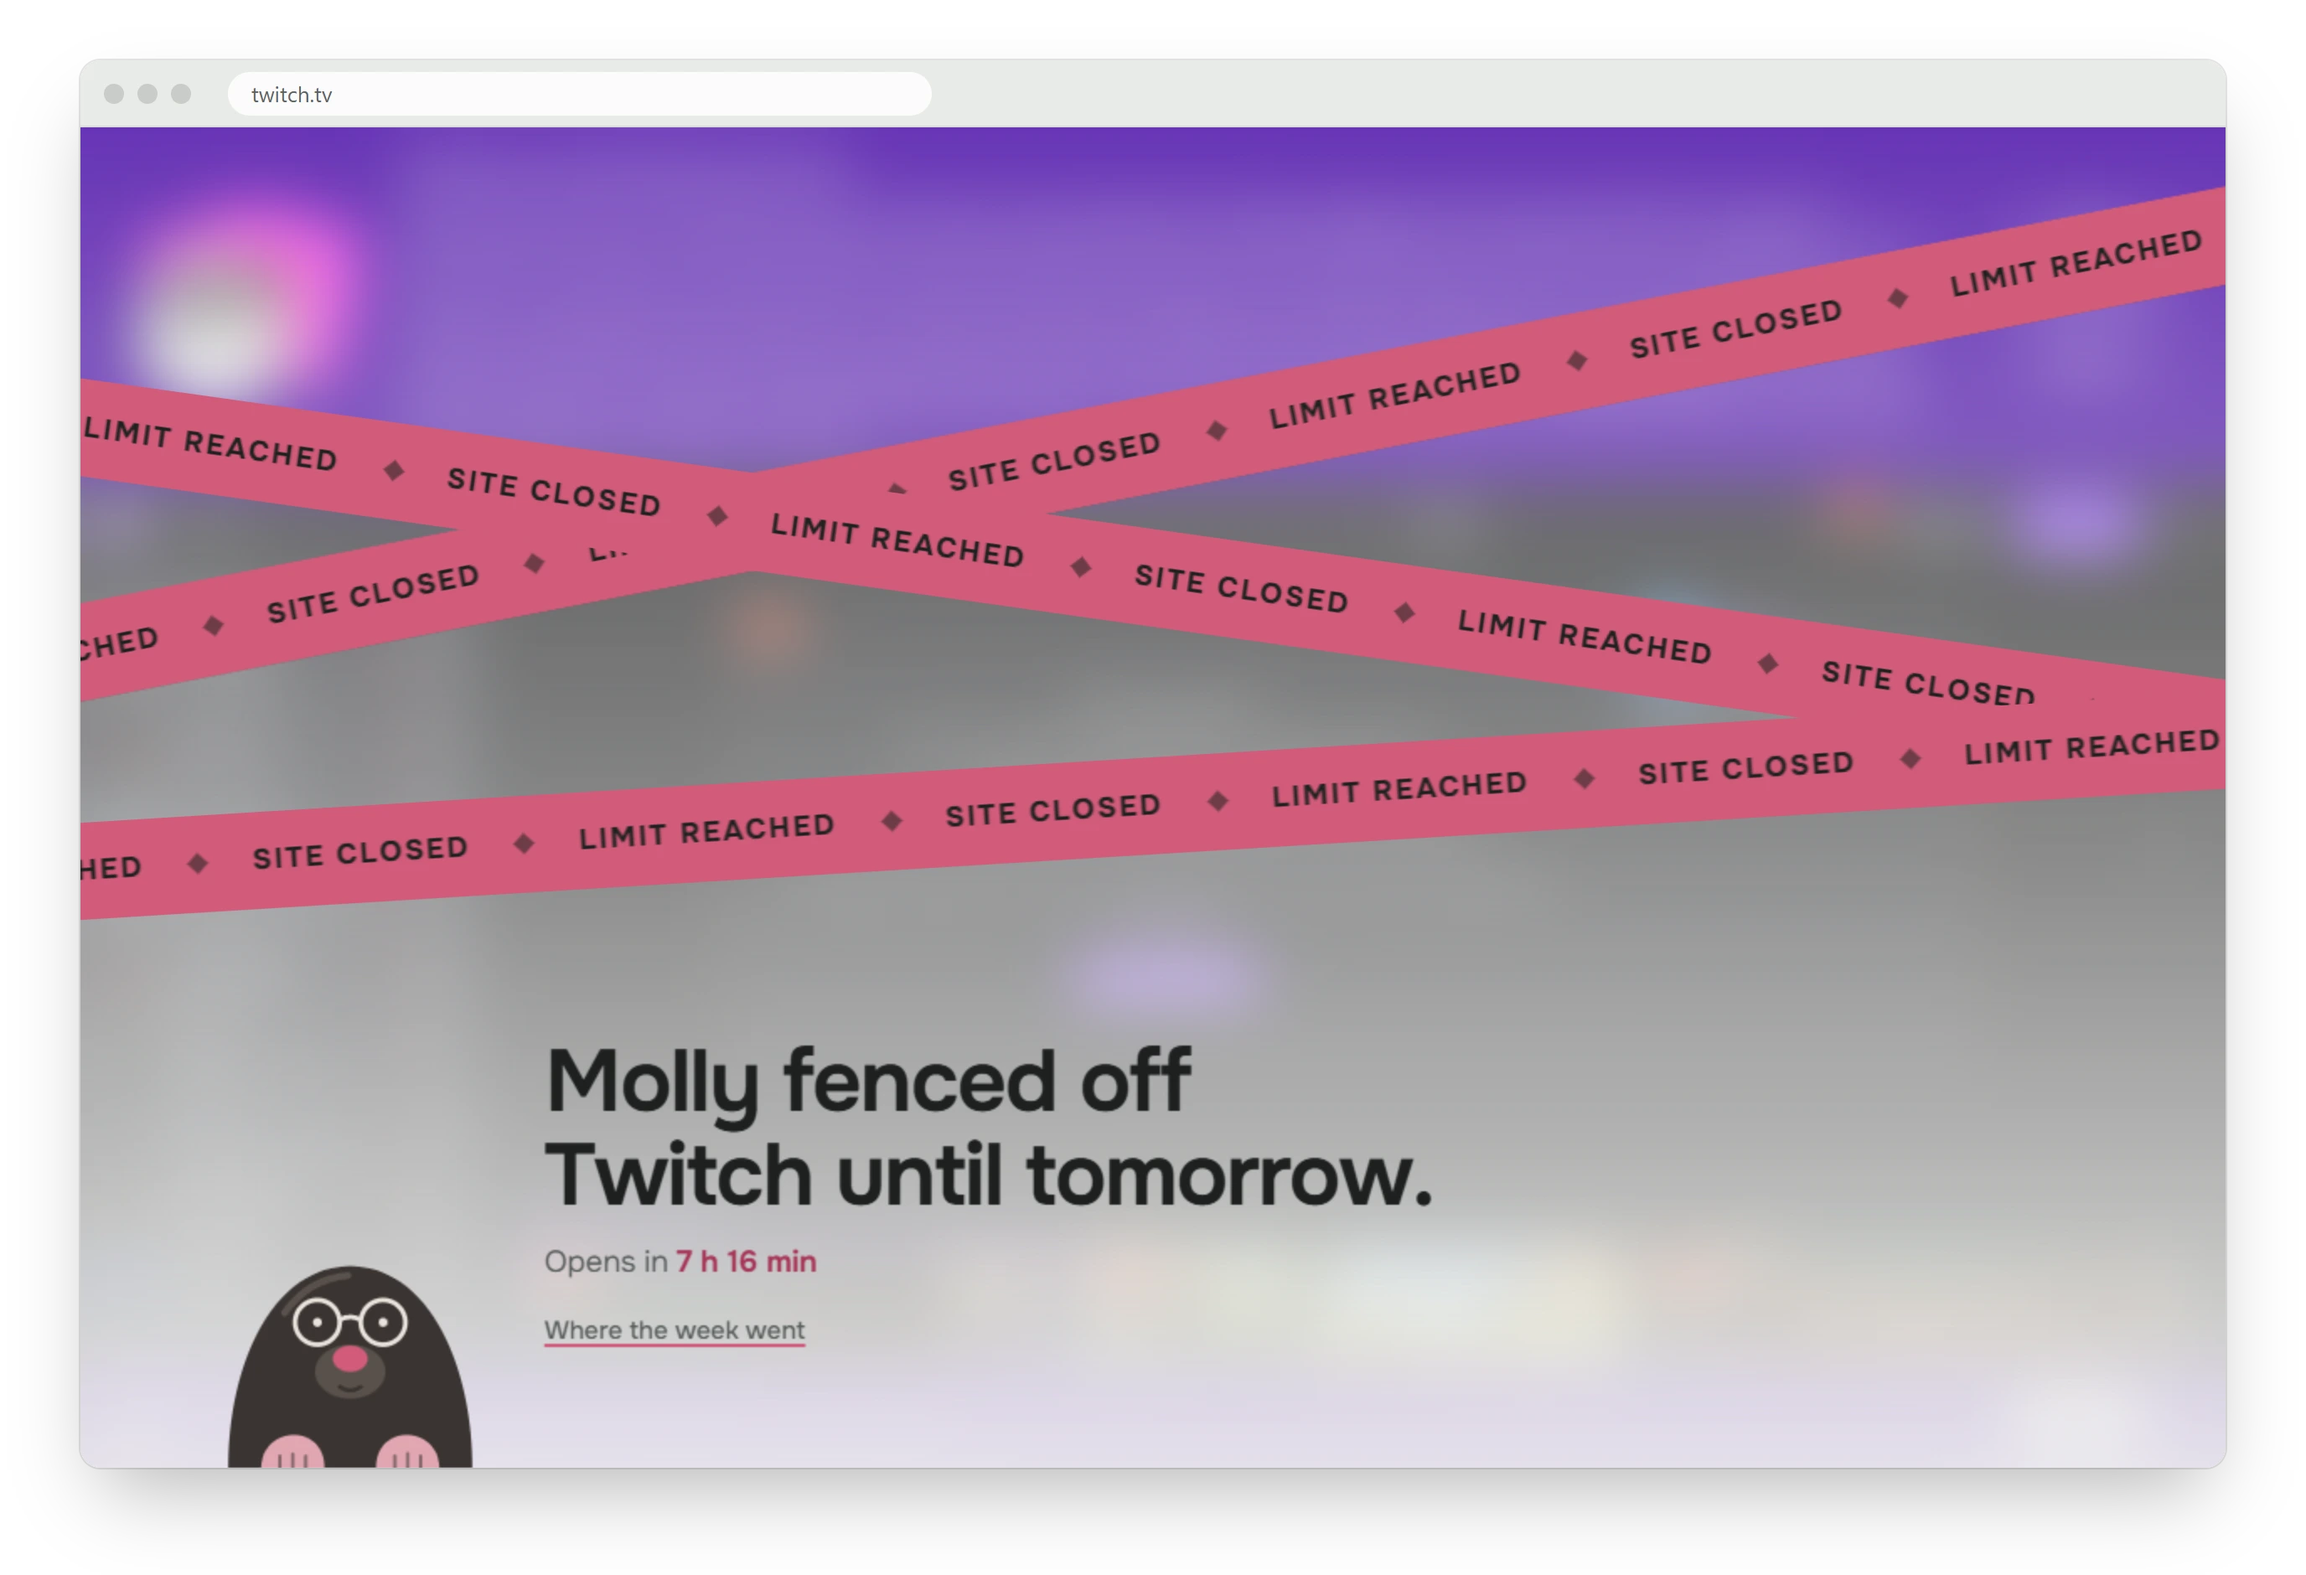
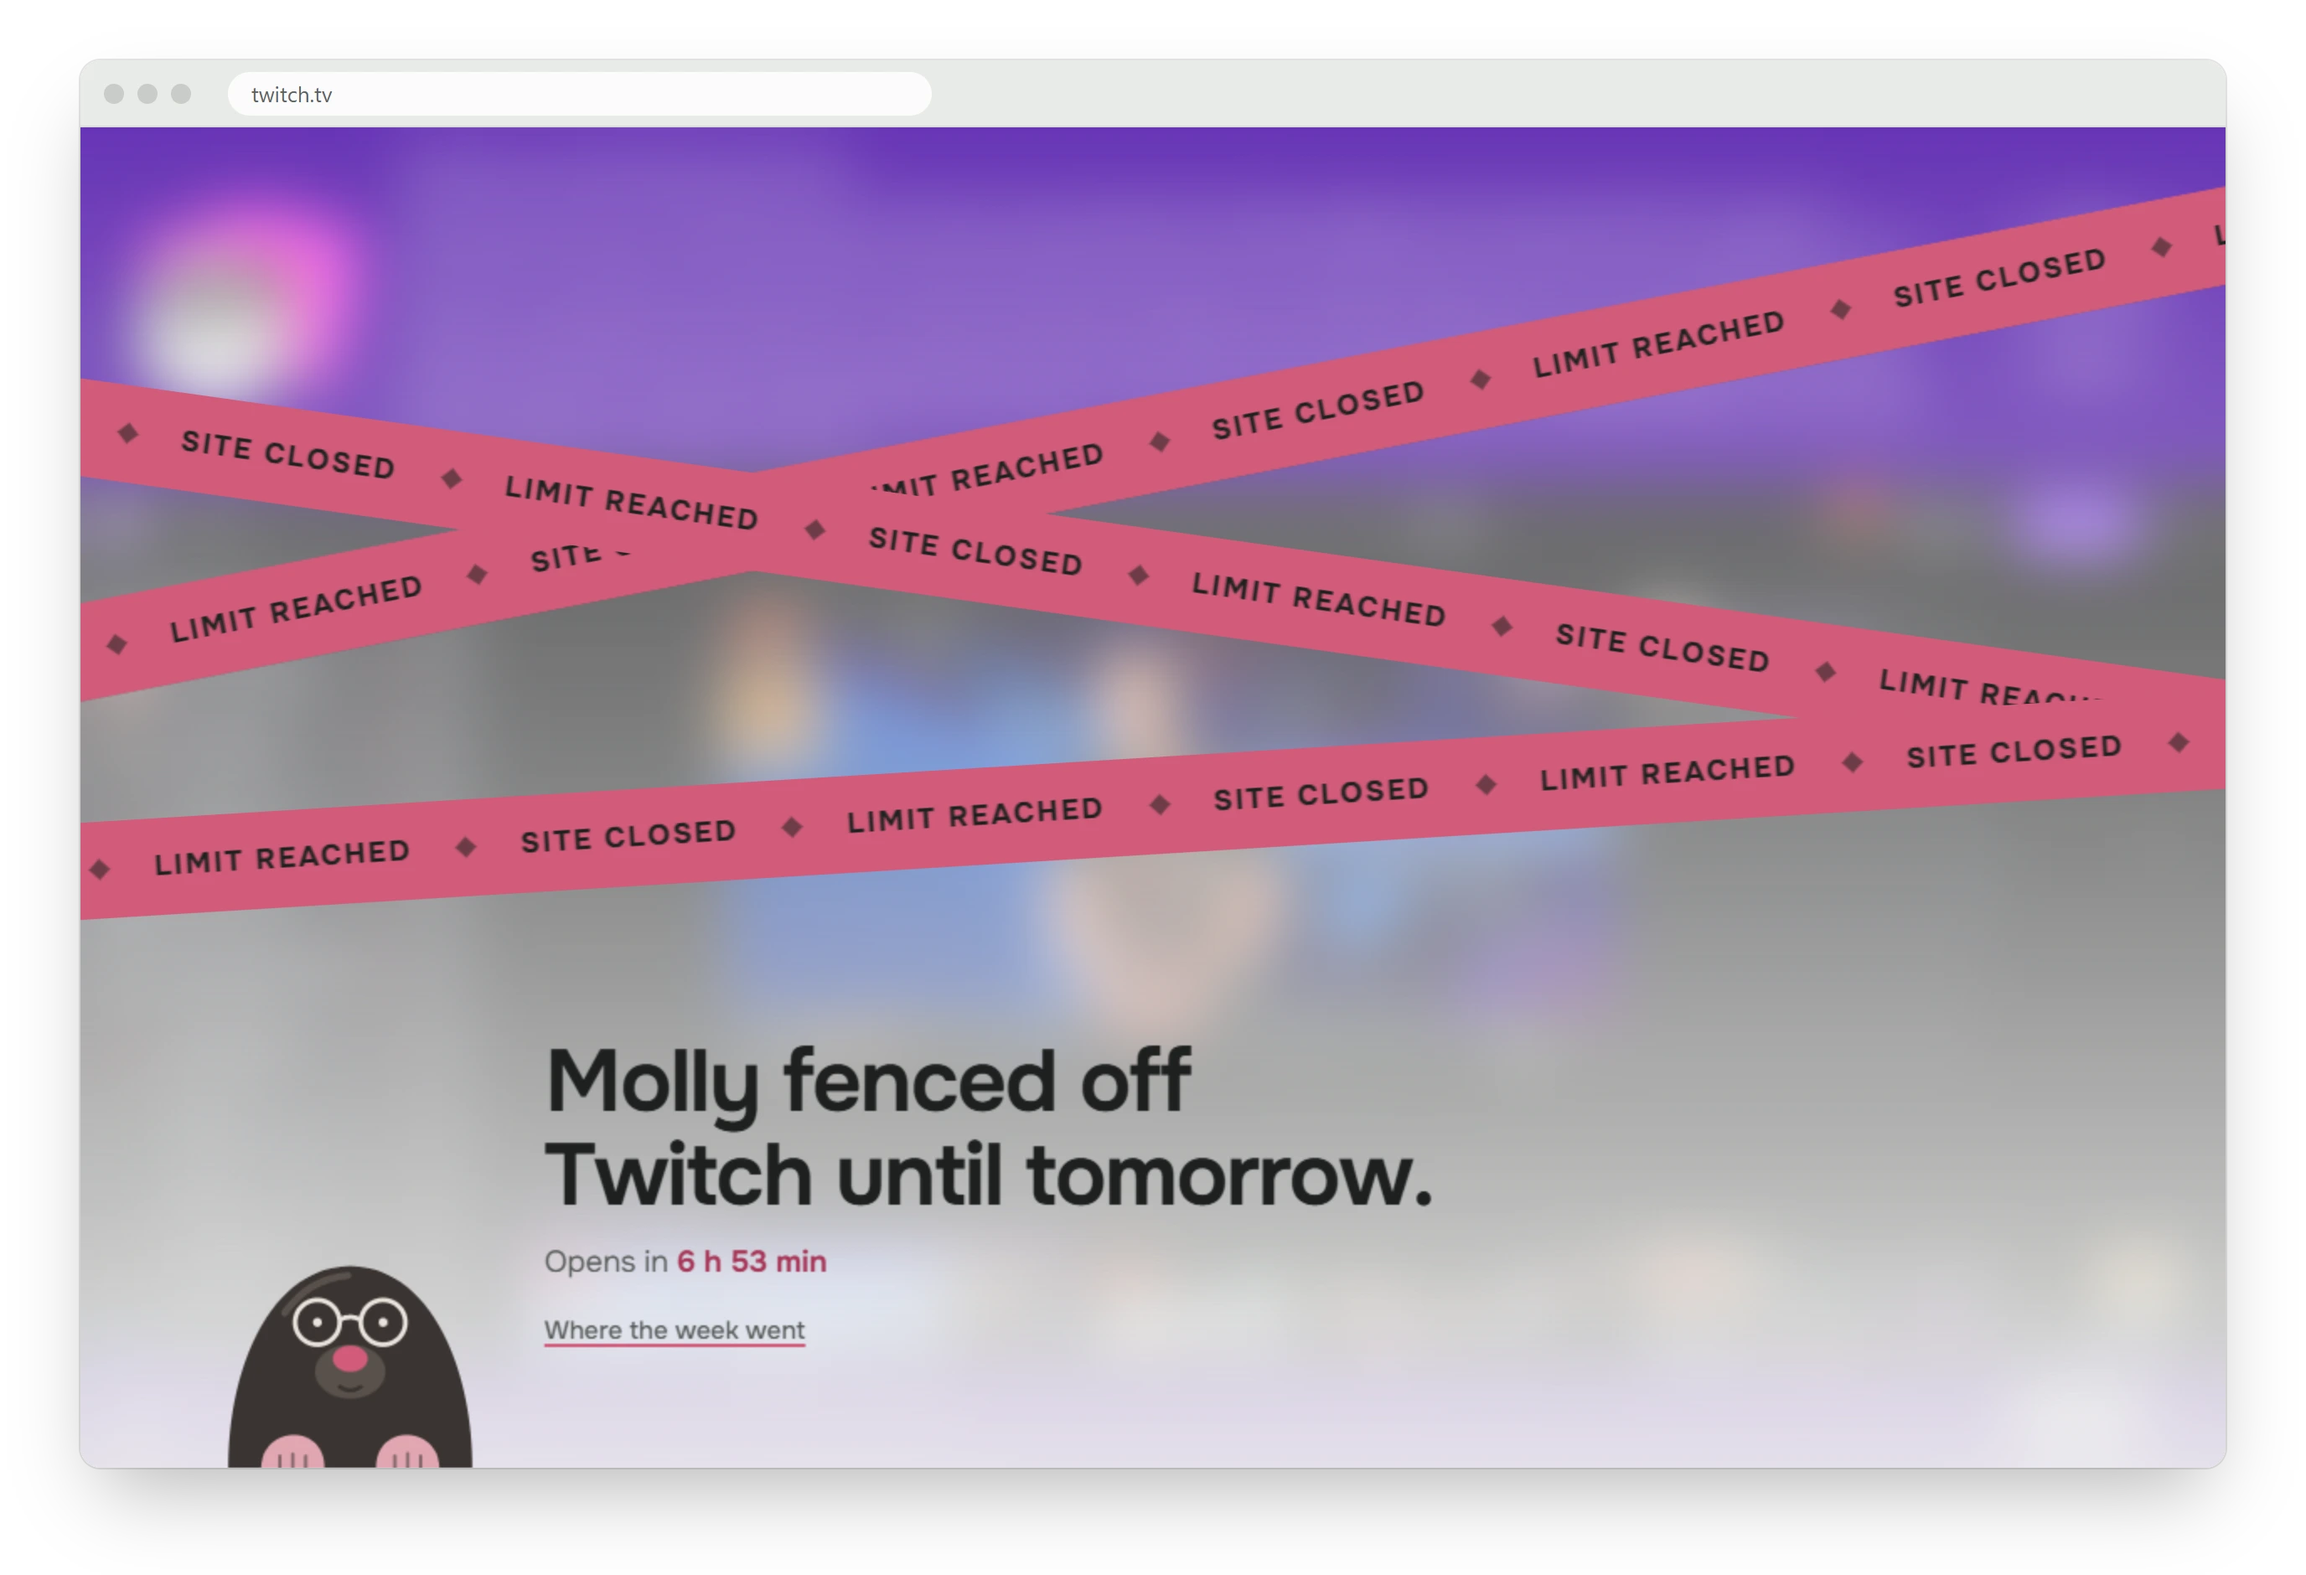
Readable site marks on popup strata; README: install with an AI agent
Brand glyphs take the layer's ink and favicons keep their colors on a light
plate, so marks no longer vanish on soil of the same tone.

diff --git a/entrypoints/popup/style.css b/entrypoints/popup/style.css
@@ -49,6 +49,9 @@ body { width: 380px; }
 @keyframes settle { from { opacity: 0; transform: translateY(-8px); } }
 .layer { display: flex; align-items: center; gap: 8px; width: 100%; padding: 0 12px; border: 0; font: inherit; font-size: 14px; text-align: left; cursor: pointer; transition: filter 0.15s; }
 .layer:hover { filter: brightness(1.08); }
+/* Marks take the layer's ink; favicons keep their colors on a light plate so any brand reads on any soil. */
+.layer .site-icon { color: inherit; }
+.layer .site-icon.favicon { padding: 2px; border-radius: 5px; background: #fbfbfa; filter: none; opacity: 1; }
 .layer-name { flex: 1; min-width: 0; overflow: hidden; font-weight: 600; text-overflow: ellipsis; white-space: nowrap; }
 .layer-time { display: inline-flex; gap: 8px; font-weight: 500; font-variant-numeric: tabular-nums; white-space: nowrap; }
 .layer-share { opacity: 0; transition: opacity 0.15s; }

diff --git a/README.md b/README.md
@@ -46,6 +46,27 @@ There's a dark theme too: it follows your system, or pick one in Settings. The i
 
 Molly isn't on the Chrome Web Store, so you install it from a release zip. It takes about a minute.
 
+### With an AI agent
+
+Paste this into Claude Code, Codex, Hermes or any agent that can run commands on your computer:
+
+```text
+Install the Molly Chrome extension from https://github.com/vibecodoor/molly.
+1. Download the molly-*-chrome.zip asset of the latest release
+   (https://api.github.com/repos/vibecodoor/molly/releases/latest).
+2. Extract it into a permanent folder: ~/Extensions/molly
+   (Windows: %USERPROFILE%\Extensions\molly). If Molly is already there,
+   overwrite its files in place. Never delete the folder: Chrome loads from it.
+3. Check that manifest.json sits directly in that folder.
+4. Open chrome://extensions and tell me the clicks: turn on Developer mode,
+   Load unpacked, pick that folder. If it's an update, click the reload icon
+   on Molly's card instead.
+```
+
+The agent does the download and unpacking. The last two clicks are yours: Chrome doesn't let programs install an unpacked extension on their own.
+
+### By hand
+
 1. Download `molly-<version>-chrome.zip` from the [latest release](https://github.com/vibecodoor/molly/releases/latest).
 2. **Extract it** to a folder you'll keep, for example `Documents\Molly`. Chrome loads the extension from this folder every time it starts, so don't delete or move it.
 3. Open `chrome://extensions`.
